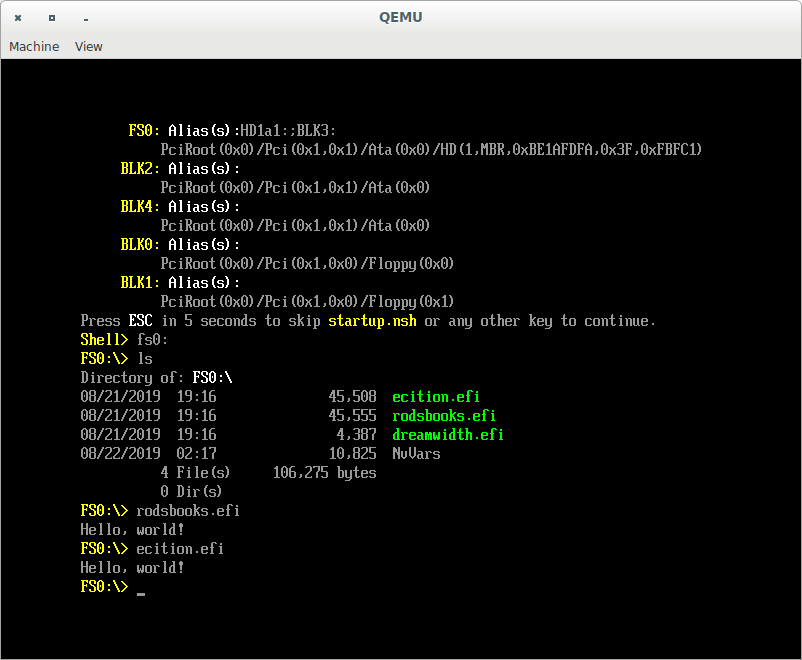
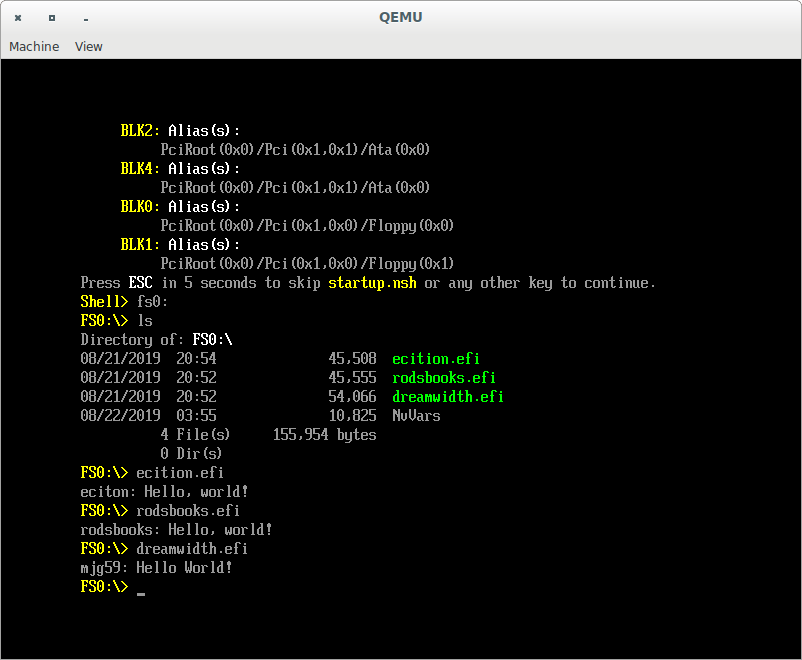
hello world: run all 3 of them

diff --git a/mjg59.dreamwidth.org/test.c b/mjg59.dreamwidth.org/test.c
@@ -8,7 +8,7 @@ efi_main (EFI_HANDLE image, EFI_SYSTEM_TABLE *systab)
 
         conout = systab->ConOut;
         InitializeLib(image, systab);
-        uefi_call_wrapper(conout->OutputString, 2, conout, L"Hello World!\n\r");
+        uefi_call_wrapper(conout->OutputString, 2, conout, L"mjg59: Hello World!\n\r");
 
         return EFI_SUCCESS;
 }

diff --git a/rodsbooks.com/main.c b/rodsbooks.com/main.c
@@ -5,7 +5,7 @@ EFI_STATUS
 EFIAPI
 efi_main (EFI_HANDLE ImageHandle, EFI_SYSTEM_TABLE *SystemTable) {
    InitializeLib(ImageHandle, SystemTable);
-   Print(L"Hello, world!\n");
+   Print(L"rodsbooks: Hello, world!\n");
 
    return EFI_SUCCESS;
 }

diff --git a/station.eciton.net/hello.c b/station.eciton.net/hello.c
@@ -5,7 +5,7 @@ EFI_STATUS efi_main(EFI_HANDLE image_handle, EFI_SYSTEM_TABLE * systab)
 {
     InitializeLib(image_handle, systab);
 
-    Print(L"Hello, world!\n");
+    Print(L"eciton: Hello, world!\n");
 
     return EFI_SUCCESS;
 }
